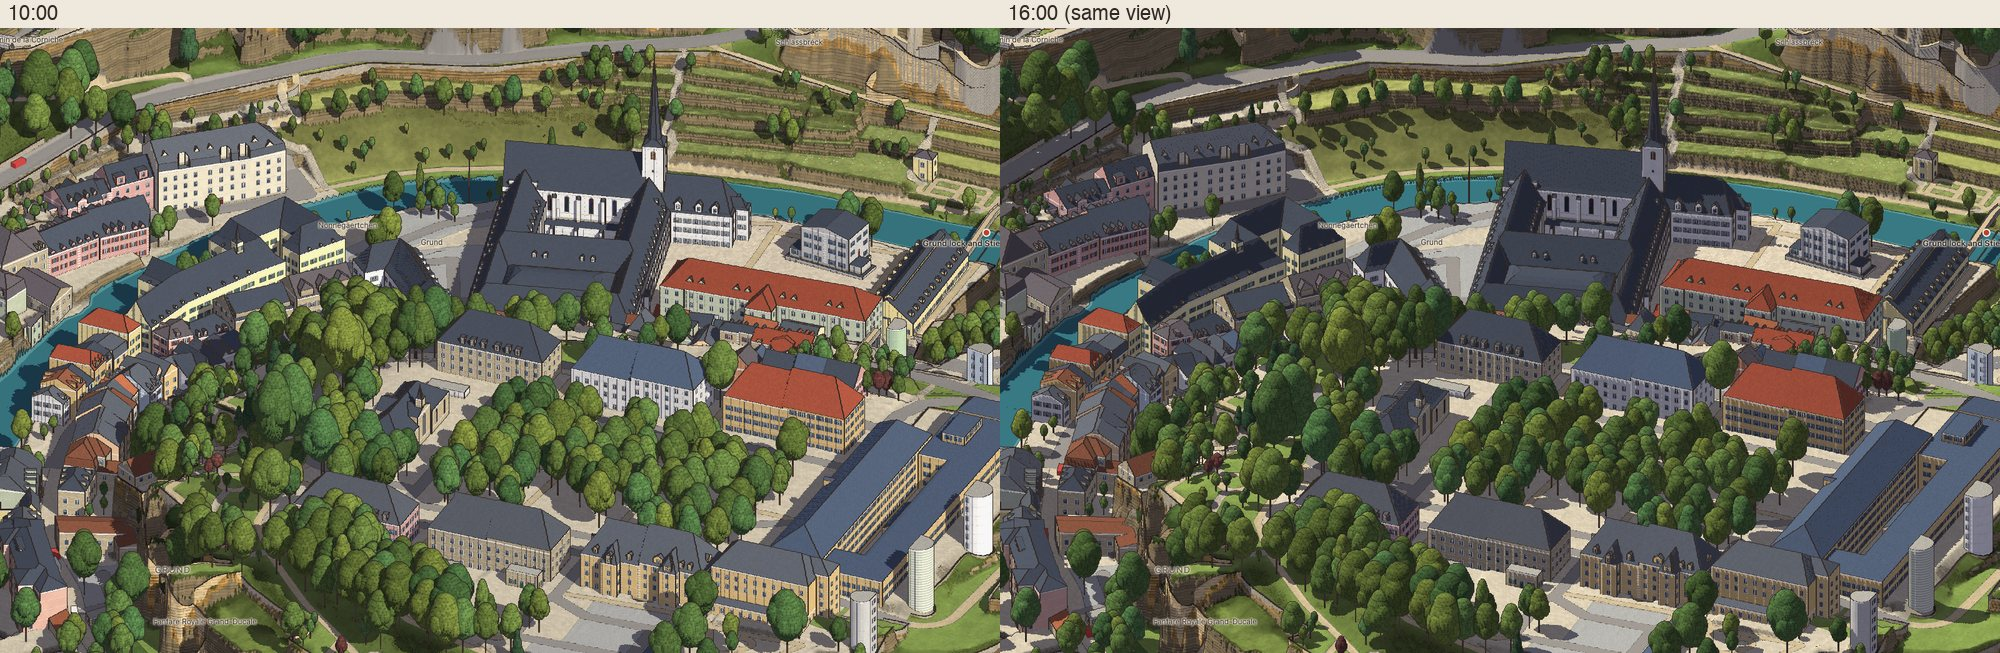
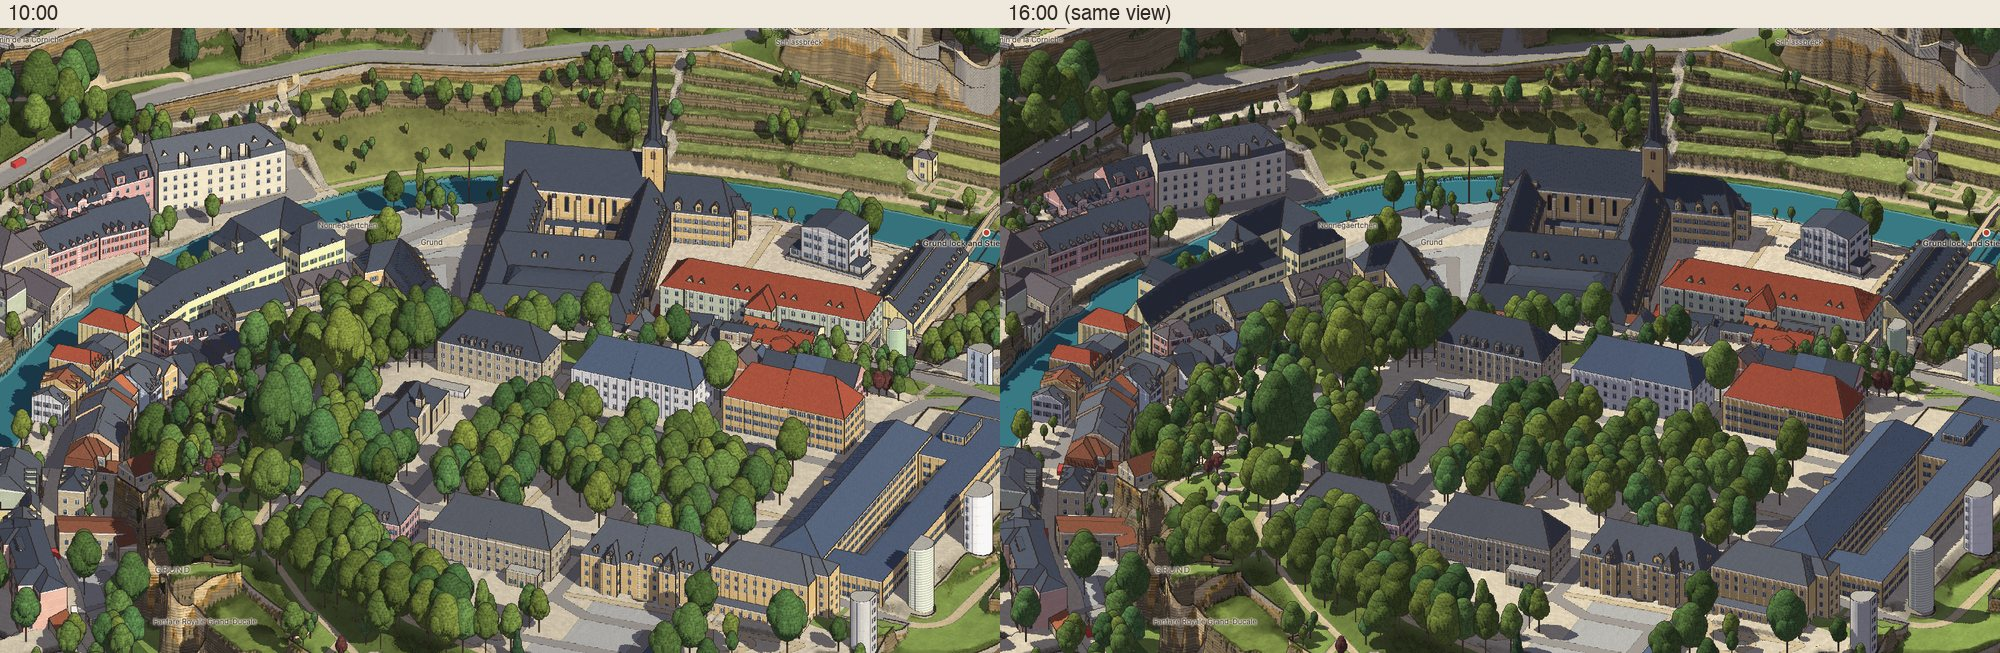
v2: Saint-Michel, Saint-Jean du Grund with the abbey, and Sainte-Cunégonde in their real wall colours
A church whose own entry gives a facade colour is rendered in it: Saint-Michel
cream with corner stones, the abbey and its church ochre, Sainte-Cunégonde white
with its tower left in bare stone (stone_parts: an outline on the ground).
Rebuilt: release 9de8d10933b1, 57 of 57 stages, 280 gate entries pass.

diff --git a/v2/layers/art_a.py b/v2/layers/art_a.py
@@ -19,7 +19,9 @@ beside a window only where both fit inside the wall's outline.
 
 Places of worship (the owner's decision of 13 Nov 2026; the facade layout says which walls, facades.md rule 6):
   walls       the stone of landmark_styles.json's kind "place_of_worship" (a building's own entry goes first), coursed
-              ashlar, no floor cornices (a nave has no storeys), no banded ground floor
+              ashlar, no floor cornices (a nave has no storeys), no banded ground floor. A rendered church
+              (its own entry gives a facade colour) is that colour, with a faint mottle; a part of it named in
+              stone_parts (a tower) stays ashlar
   windows     the layout's rectangle drawn by its kind, its head round or pointed (a described landmark wall's
               opening says its own: pointed, round, or flat under a lintel): a lancet (a stone frame along
               the arch, leaded glass); a traceried window (a stone mullion, two lights with their own heads and a
@@ -36,6 +38,8 @@ from __future__ import annotations
 import math
 
 import numpy as np
+from shapely import contains_xy
+from shapely.geometry import Polygon
 
 from v2.layers.common import CLASS, RIGHT, UP, VIEW, pal
 from v2.layers.detail import band, gp, ihash, slabs, soft_band, vnoise
@@ -125,7 +129,7 @@ class Style:
             if known.get("roof"):
                 name, courses = next((n, c) for n, c, _ in ROOFS if n == known["roof"])
             self.roof, self.courses, self.roof_name = B(name) * rt, courses, name
-        self.quoins = h01(bid + "q") < 0.35
+        self.quoins = bool(known["quoins"]) if "quoins" in known else h01(bid + "q") < 0.35
         self.shutters = h01(bid + "s") < 0.45
         self.shutter = B(SHUTTERS[int(h01(bid + "sc") * len(SHUTTERS)) % len(SHUTTERS)])
         self.door = B(DOORS[int(h01(bid + "d") * len(DOORS)) % len(DOORS)])
@@ -175,6 +179,13 @@ class ArtA:
         self.clad_parts = {bi: [(float(c["centre"][0]), float(c["centre"][1]), float(c["radius"]), float(c["above"]),
                                  B(c["colour"])) for c in known[b["id"]]["clad"]]
                            for bi, b in enumerate(scene.buildings) if known.get(b["id"], {}).get("clad")}
+        # parts of a rendered well-known building left in bare stone (landmark_styles.json, stone_parts): per
+        # building index, their outlines on the ground (a hand's width wider) and the building's style in stone
+        self.stone_parts = {bi: ([Polygon(c["outline"]).buffer(0.15) for c in known[b["id"]]["stone_parts"]],
+                                 Style(b["id"], b.get("roof_shape", ""),
+                                       {**{k: v for k, v in known[b["id"]].items() if k != "facade"}, "stone": True},
+                                       church=bi in self.church))
+                            for bi, b in enumerate(scene.buildings) if known.get(b["id"], {}).get("stone_parts")}
         self.materials = None        # method B: {name: (image (H, W, 3) float, (width_m, height_m))}
 
     def tex(self, name, a, b):
@@ -315,6 +326,9 @@ class ArtA:
         n = len(bi)
         rgb = np.zeros((n, 3))
         base = np.array([self.styles[b].wall for b in bi]) if n else np.zeros((0, 3))
+        sp = self.in_stone_part(bi, P)                                         # a rendered building's part in bare stone
+        if sp.any():
+            base[sp] = np.array([self.stone_parts[b][1].wall for b in bi[sp]])
         rgb[:] = base
         has = wi >= 0
         if has.any():
@@ -338,6 +352,10 @@ class ArtA:
                         c[mm] = t
             trim = B("trim")
             sty = [self.church[b] if k else self.styles[b] for b, k in zip(bi[has], ch)]
+            if sp[has].any():
+                q = sp[has]
+                c[q] = np.array([self.stone_parts[b][1].wall for b in bi[has][q]])
+                sty = [self.stone_parts[b][1] if k else x for x, b, k in zip(sty, bi[has], q)]
             # the wall's own surface: coursed ashlar on stone buildings; on render a faint mottle and, on some
             # buildings, a banded ground floor
             stone_w = np.array([x.stone for x in sty], bool)
@@ -435,6 +453,16 @@ class ArtA:
                 sub[stone] = CLASS["trim"]
                 cls_out[has] = sub
         return rgb * gp(px, py, 0.02, 11)[:, None] if n else rgb
+
+    def in_stone_part(self, bi, P):
+        """Which pixels of a rendered building stand in one of its parts of bare stone (landmark_styles.json,
+        stone_parts: an outline on the ground, as a tower's)."""
+        m = np.zeros(len(bi), bool)
+        for b in set(np.unique(bi).tolist()) & set(self.stone_parts) if len(bi) else ():
+            q = np.flatnonzero(bi == b)
+            for poly in self.stone_parts[b][0]:
+                m[q] |= contains_xy(poly, P[q, 0], P[q, 1])
+        return m
 
     def clad(self, bi, P, px, py):
         """Where a building's pixels lie in one of its sheet-metal parts (landmark_styles.json, clad), and their

diff --git a/v2/layers/tests/test_phase2.py b/v2/layers/tests/test_phase2.py
@@ -114,13 +114,14 @@ def test_crown_lobes_stay_inside_the_measured_crown():
 def test_a_well_known_building_gets_its_own_materials():
     from v2.layers.art_a import landmark_styles
     known = landmark_styles()
-    assert known and all(set(v) <= {"name", "stone", "facade", "roof", "kind", "windows", "clad"} for v in known.values())
+    assert known and all(set(v) <= {"name", "stone", "facade", "roof", "kind", "windows", "clad", "stone_parts", "quoins"} for v in known.values())
     assert all(v.get("kind", "place_of_worship") == "place_of_worship" and v.get("windows", "round") in ("round", "pointed")
                for v in known.values())
     assert landmark_styles("kinds")["place_of_worship"]["stone"] is True
     for bid, k in known.items():
         st = Style(bid, "gable", k)
-        assert st.roof_name == k["roof"] and st.stone == bool(k.get("stone"))
+        assert ("roof" not in k or st.roof_name == k["roof"]) and st.stone == bool(k.get("stone"))
+        assert "quoins" not in k or st.quoins is k["quoins"]
         assert "facade" not in k or (st.facade == k["facade"] and k["facade"] in FACADES)
 
 
@@ -143,6 +144,28 @@ def test_a_part_in_sheet_metal_is_one_palette_colour_inside_its_cylinder_and_now
     m, rgb = A.clad(bi, P, np.arange(5.0), np.arange(5.0))
     assert m.tolist() == [True, True, False, False, False]
     assert np.abs(rgb / pal("buildings", c["colour"]) - 1).max() < 0.05                 # the colour, with the paper's grain
+
+
+def test_a_rendered_buildings_part_in_bare_stone_is_stone_inside_its_outline_and_render_outside():
+    """landmark_styles.json, stone_parts: the walls of a rendered building that stand in the part's outline on the
+    ground are sandstone; its other walls are its facade colour; another building there is not touched."""
+    from types import SimpleNamespace
+    from v2.layers.art_a import ArtA, landmark_styles
+    from v2.layers.common import pal
+    bid, own = next((k, v) for k, v in landmark_styles().items() if v.get("stone_parts"))
+    part = own["stone_parts"][0]
+    assert set(part) == {"name", "outline"} and len(part["outline"]) >= 3 and "facade" in own and not own.get("stone")
+    scene = SimpleNamespace(buildings=[{"id": bid, "roof_shape": "gable"}, {"id": "B1", "roof_shape": "gable"}],
+                            facades={"walls": [], "worship": {}})
+    empty = {"V": np.zeros((0, 3)), "T": np.zeros((0, 3), np.int64), "kind": np.zeros(0, np.int64), "obj": np.zeros(0, np.int64)}
+    A = ArtA(scene, empty)
+    e, n = np.mean(part["outline"], 0)
+    P = np.array([[e, n, 260.0], [e + 40.0, n, 260.0], [e, n, 260.0]])
+    bi = np.array([0, 0, 1])
+    assert A.in_stone_part(bi, P).tolist() == [True, False, False]
+    rgb = A.walls_rgb(bi, np.full(3, -1), P, np.arange(3.0), np.arange(3.0))
+    assert np.ptp(rgb[0] / pal("buildings", "wall_stone")) < 0.01                       # the stone's hue, in its own tone
+    assert np.ptp(rgb[1] / pal("buildings", own["facade"])) < 0.01                      # the render's
 
 
 # ------------------------------------------------------------------------------------------------ places of worship

diff --git a/research/v2/DECISIONS.md b/research/v2/DECISIONS.md
@@ -89,3 +89,4 @@ one is a decision for the owner, written here with its date.
 | Whose details: the model's, with painted surfaces; PR #19 merged (22 Nov) | The owner looked closely at the six blocks and sent four faults (patchy textures and dormers with no windows; the cathedral apse's windows incomplete; its tower's windows in the wrong place; odd marks on its roof), and asked whether the model adding every detail leads to irregularities. Told that the faults come from mixing the painting's details with the 3D model's (and one from a mistake in the trial: its blocks overlap), and asked whose details the map should use, the owner decided on 22 Nov 2026, in the owner's words: "Model's details, painted surfaces". Asked in the same step whether to merge PR #19, the owner answered: "Merge once CI passes"; merged as a192c03. Done at $0 (report section 21). The option as put to the owner said it restarts the code-art work that was paused (windows on dormers, real windows for landmarks): that pause is lifted for those two things. Windows on dormers were added to the model on 22 Nov 2026 at $0 (report section 22; 2,617 on the test area; the test area built again as release c46716ca4c9b, 53 of 57 stages: two speed checks failed on the day's frame pacing and the two summaries with them). |
 | The surfaces-only version is right; PR #20 merged; the cathedral's windows from images (23 Nov) | Shown the six blocks in the surfaces-only way with windows on dormers (report sections 21, 22) and asked (1) whether this version is right, (2) whether to merge PR #20 into `v2` although two speed checks had failed on the laptop that day, and (3) whether to work out the cathedral's real windows from the aerial photo and v1's art by eye or wait for the owner's own description, the owner answered on 23 Nov 2026: "1- looking good 2- yes 3- look for images and aerial photos and figure it out". PR #20 was merged as c6c1276 (CI green). The cathedral's openings were then entered wall by wall from v1's aerial capture and eight photographs from Wikimedia Commons (named with authors and licences in `v2/data/structures/landmark_facades.json`), at $0: 21 walls, 52 openings, in place of the church rule's on those walls (facades.md rules 31 to 35; report section 23). This answers question 55 for the cathedral: from images, by my eye, the sources named, each wall marked with how it was measured. Only walls the map's camera sees are described, and three more that a photograph shows plainly. |
 | The cathedral's windows look right; PR #21 merged; the copper spire; the other landmarks the same way (23 Nov) | Shown the cathedral with its windows as its sources show them (report section 23) and asked (1) whether they are right now, (2) whether to merge PR #21 into `v2`, (3) whether to make the central spire copper green and (4) whether to do the other landmarks the same way and which first (the palace, the abbey, Saint-Michel, Saint-Jean du Grund, Sainte-Cunégonde), the owner answered on 23 Nov 2026: "1- looks good 2- yes 3- do it 4- do it". PR #21 was merged as df67c6d (CI green). At $0: the cathedral's central spire and its lantern are copper green (a `clad` part in `v2/data/structures/landmark_styles.json`; layer-05 spec); Saint-Michel (4 walls), the tower of Saint-Jean du Grund (2 walls) and Sainte-Cunégonde (7 walls) are entered wall by wall from v1's aerial capture and photographs from Wikimedia Commons, named in `landmark_facades.json` (facades.md, "Three more churches"; report section 24). No order was named, so all five were looked at. Two were left on the rule, for a reason found in the sources and not by choice: the Grand Ducal Palace's known front looks away from the map's camera and what the camera sees of it is too narrow and too soft in the capture to read; the abbey church's cloister wall already had the rule's windows where the capture shows them. |
+| The spire and the three churches are good enough for v2; PR #22 merged; the churches' wall colours; the quote for the whole test area (23 Nov) | Shown the copper spire and Saint-Michel, Saint-Jean du Grund and Sainte-Cunégonde with the windows their sources show (report section 24) and asked (1) whether they look right, (2) whether to merge PR #22 into `v2`, (3) whether to give the three churches their real wall colours and (4) whether the next step is the quote for painting the whole test area, the owner answered on 23 Nov 2026: "1- good enough for v2 2- yes 3- yes 4- yes". PR #22 was merged (501873a, CI green). The colours and the quote are report section 25. My reading of (4): the quote is the next step; the run itself still needs the owner's approval of that quote. |

diff --git a/v2/docs/specs/layer-05-buildings.md b/v2/docs/specs/layer-05-buildings.md
@@ -29,6 +29,13 @@ Chosen by `params.json` art.method (or `V2_ART`); each method builds into its ow
   courses, no ashlar. It is a material of its own (class trim), so the shadow detector compares it with itself and
   a painting's colours do not reach it. The cathedral's central spire and its lantern are the one entry; its two
   tower spires are slate, as they are.
+- **A, a rendered church (owner, 23 Nov 2026: the three churches' real wall colours, "yes"):** a church whose
+  own entry in `landmark_styles.json` gives a `facade` colour is rendered in that colour with a faint mottle,
+  not stone: Saint-Michel cream, Sainte-Cunégonde white, Neumünster Abbey with Saint-Jean du Grund ochre (the
+  whole building, wings and church alike, as it is). An entry may name `stone_parts`: each a name and its outline
+  on the ground; the building's walls that stand in it stay coursed sandstone (Sainte-Cunégonde's tower). It may
+  set `quoins` true or false where the photographs show corner stones or none (Saint-Michel: true). Chosen by
+  hand from the photographs named in `landmark_facades.json`; nothing else about the walls changes.
 - **A, places of worship, round two (owner, 13 Nov 2026, "One more round"):** what the layout's rules 21 to 30
   place is drawn so (`church_rgb` and `walls_rgb` in `v2/layers/art_a.py`):
   - *lancet:* a sill, leaded glass, a lead line up the middle;
